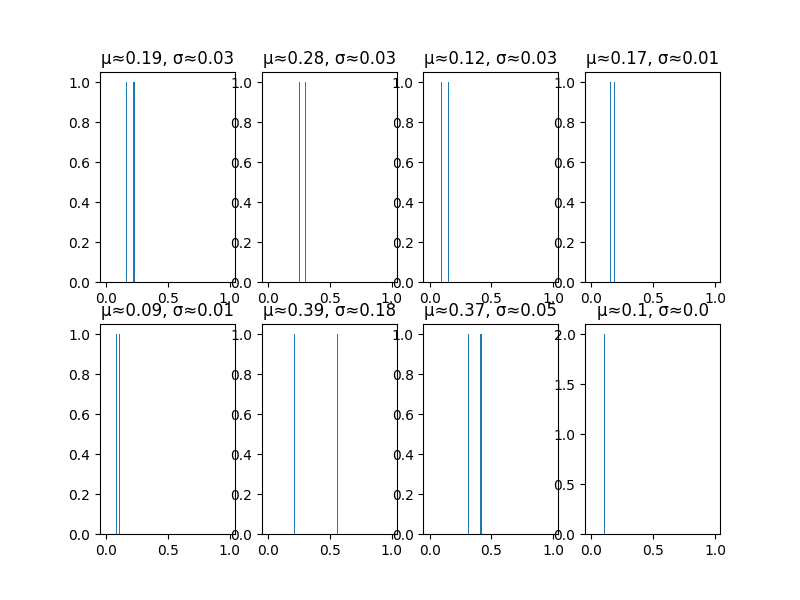
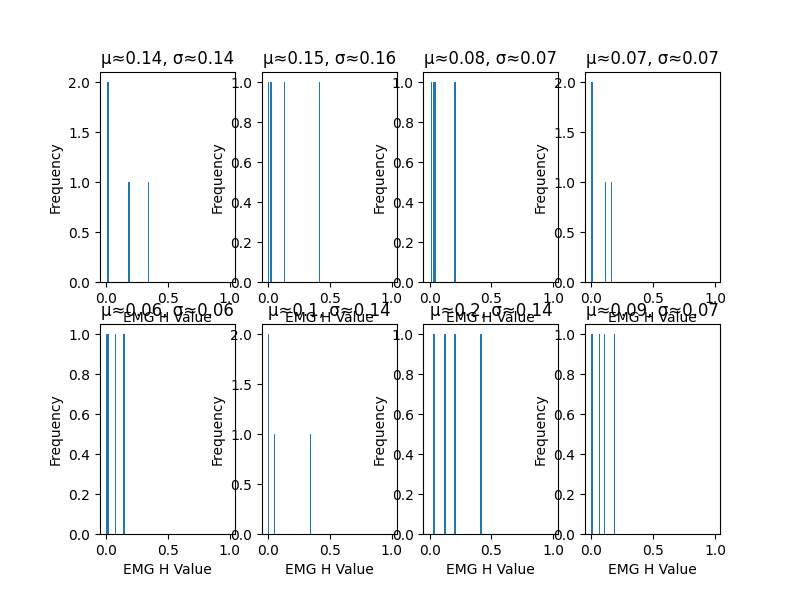
normalized matrices and grouped by task

diff --git a/src/script/find_similar_synergies.py b/src/script/find_similar_synergies.py
@@ -23,29 +23,29 @@ def find_all_Hs(data):
         #all_participants = ['c02', 'c04', 'c05', 'c07', 'c08', 'c09', 'c10'] # omitted c06 for now
         #all_tasks = ['10%', '30%', '50%']
         # Use one participant and one task for now
-        all_participants = ['c07']
-        all_tasks = ['10%']
+        all_participants = ['c02']
+        all_tasks = ['50%']
         for participant in all_participants:
             for task in all_tasks:
-                load_data = match_df.loc[(match_df['Task'] == task) & (match_df['Su'] == participant)]
+                load_data = match_df.loc[(match_df['Task'] == task) & (match_df['Su'] != 'c06')]
                 load_emg = load_data.loc[:, 'Bicep':'MidTrap'].values
-
+                """
                 curr_mean = 0
                 VAF_best = 0
                 H_best = 0
                 gmeans_all_ranks = np.zeros([1,3])
                 lmeans_all_ranks = np.zeros([3,8])
                 Hs_all_ranks = []
-                #W_best = 0
+                W_best = 0
                 rank_chosen = 0
                 for rank in range(2, 5):
                     g_mean, l_mean, VAF_m, H_m, W_m = rank_determine_helper(100, load_emg, rank)
                     gmeans_all_ranks[0,rank-2] = g_mean
                     lmeans_all_ranks[rank-2,:] = l_mean
                     Hs_all_ranks.append(H_m)
-                    if np.any(l_mean < 80) and g_mean < 90:
+                    if np.any(l_mean < 80) or g_mean < 90:
                         continue
-                    elif g_mean - curr_mean >= 3:
+                    elif g_mean - curr_mean < 3:
                         curr_mean = g_mean
                         VAF_best = VAF_m
                         H_best = H_m
@@ -55,6 +55,7 @@ def find_all_Hs(data):
                         continue
                 # If none of the ranks have g_mean > 90 and np.all(l_mean) > 80)
                 if type(H_best) == int: # still same as its initialized value --> no optimal H has been found yet
+                    print("entered second round selection")
                     if np.any(np.all(lmeans_all_ranks > 80, axis=1)): # if any row/rank has all l_means > 80, pick that one
                         rank_chosen = np.where(np.all(lmeans_all_ranks > 80, axis=1))[0][0] + 2 # lowest rank/row where all l_means > 80
                         H_best = Hs_all_ranks[np.where(np.all(lmeans_all_ranks > 80, axis=1))[0][0]]
@@ -62,19 +63,45 @@ def find_all_Hs(data):
                         rank_chosen = np.where(gmeans_all_ranks > 90)[0][0] + 2 # else, pick lowest rank with g_mean > 90
                         H_best = Hs_all_ranks[np.where(gmeans_all_ranks > 90)[0][0]]
                     else:
+                        H_best = []
                         print("No H satisfies the criteria.")
                         continue
+                """
 
-                #print('best number of synergy chosen is: ', rank_chosen)
-                #print('H_best is:\n', H_best)
+                curr_mean = 0
+                VAF_best = 0
+                H_best = 0
+                W_best = 0
+                rank_chosen = 0
+                for rank in range(2, 5):
+                    g_mean, l_mean, VAF_m, H_m, W_m = rank_determine_helper(100, load_emg, rank)
+                    if np.any(l_mean < 80):
+                        continue
+                    elif g_mean - curr_mean >= 3:
+                        curr_mean = g_mean
+                        VAF_best = VAF_m
+                        H_best = H_m
+                        W_best = W_m
+                        rank_chosen = rank
+                    else:
+                        continue
+
+                print('best number of synergy chosen is: ', rank_chosen)
+                print('H_best is:\n', H_best)
                 if 'reference' in mat:
-                    print(str(H_best))
+                    print("Reference")
+                    print("H: " + str(H_best))
+                    print("EMG mean weights: " + str(np.mean(W_best, axis=0)))
                     H_refs[(participant, task)] = H_best
                     #x=0
                 elif 'match' in mat:
+                    print("Match")
+                    print("H: " + str(H_best))
+                    print("EMG mean weights: " + str(np.mean(W_best, axis=0)))
                     H_matches[(participant, task)] = H_best
 
-    # Plot H_matches[0]
+
+    # Plot histogram of H_matches[0]
     plt.rcParams["figure.figsize"] = (8, 6)
     fig, axs = plt.subplots(2, 4)
     num_emgs = 8
@@ -85,9 +112,15 @@ def find_all_Hs(data):
         emg_stdev = np.std(H_matches_values_list[0][:,emg_count])
         title_str = 'μ≈' + str(round(emg_mean, 2)) + ', σ≈' + str(round(emg_stdev, 2))
         axs[int(emg_count/4), emg_count % 4].set_title(title_str)
-    # Plot the histogram of the random values
+        axs[int(emg_count / 4), emg_count % 4].set_xlabel('EMG H Value')
+        axs[int(emg_count / 4), emg_count % 4].set_ylabel('Frequency')
     plt.savefig('H_matches histogram')
     plt.show()
+
+
+
+
+
     return H_refs, H_matches
 
 
@@ -125,6 +158,8 @@ def scalar_prod_similarity_normal():
         axs[int(emg_count/4), emg_count % 4].hist(H_matches_rand[:, emg_count], list(np.array(np.arange(0,1,0.01))))
         title_str = 'μ≈' + str(round(H_matches_emg_means[emg_count], 2)) + ', σ≈' + str(round(H_matches_emg_stdevs[emg_count], 2))
         axs[int(emg_count/4), emg_count % 4].set_title(title_str)
+        axs[int(emg_count / 4), emg_count % 4].set_xaxis('EMG H Value')
+        axs[int(emg_count / 4), emg_count % 4].set_yaxis('Frequency')
     # Plot the histogram of the random values
     plt.savefig('H_matches_rand histogram (normal distrib)')
     plt.show()
@@ -153,6 +188,10 @@ def scalar_prod_similarity_normal():
     participant_synergy_pairs = [pair for pair in keys_percentile95_and_above if pair[0][0] != "H_ref_rand"] # participant data, not random data
     print("participant_synergy_pairs: " + str(participant_synergy_pairs))
     syn_pairs_same_participant_and_task = [pair for pair in participant_synergy_pairs if pair[0][0] == pair[0][2]] # if both correspond to same participant and same task
+    # choose rank number of synergy pairs with the highest scalar product if the syn_pairs_same_participant_and_task >= rank
+    rank = np.shape(H_matches_concat)[0]
+    if rank < len(syn_pairs_same_participant_and_task):
+        syn_pairs_same_participant_and_task = syn_pairs_same_participant_and_task[-rank:]
     print("syn_pairs_same_participant_and_task: " + str(syn_pairs_same_participant_and_task))
     percent_same_participant_and_task = ((len(syn_pairs_same_participant_and_task) / len(participant_synergy_pairs)) * 100) if len(participant_synergy_pairs) != 0 else 'nan'
     print("percent_same_participant_and_task: " + str(percent_same_participant_and_task))
@@ -202,6 +241,8 @@ def scalar_prod_similarity_truncnorm():
             axs[int(emg_count/4), emg_count % 4].hist(H_matches_rand[:, emg_count], list(np.array(np.arange(0,1,0.01))))
             title_str = 'μ≈' + str(round(H_matches_emg_means[emg_count], 2)) + ', σ≈' + str(round(H_matches_emg_stdevs[emg_count], 2))
             axs[int(emg_count/4), emg_count % 4].set_title(title_str)
+            axs[int(emg_count / 4), emg_count % 4].set_xaxis('EMG H Value')
+            axs[int(emg_count / 4), emg_count % 4].set_yaxis('Frequency')
     # Plot the histogram of the random values
     plt.savefig('H_matches_rand histogram (truncnorm distrib)')
     plt.show()
@@ -230,6 +271,10 @@ def scalar_prod_similarity_truncnorm():
     participant_synergy_pairs = [pair for pair in keys_percentile95_and_above if pair[0][0] != "H_ref_rand"] # participant data, not random data
     print("participant_synergy_pairs: " + str(participant_synergy_pairs))
     syn_pairs_same_participant_and_task = [pair for pair in participant_synergy_pairs if pair[0][0] == pair[0][2]] # if both correspond to same participant and same task
+    # choose rank number of synergy pairs with the highest scalar product if the syn_pairs_same_participant_and_task >= rank
+    rank = np.shape(H_matches_concat)[0]
+    if rank < len(syn_pairs_same_participant_and_task):
+        syn_pairs_same_participant_and_task = syn_pairs_same_participant_and_task[-rank:]
     print("syn_pairs_same_participant_and_task: " + str(syn_pairs_same_participant_and_task))
     percent_same_participant_and_task = ((len(syn_pairs_same_participant_and_task) / len(participant_synergy_pairs)) * 100) if len(participant_synergy_pairs) != 0 else 'nan'
     print("percent_same_participant_and_task: " + str(percent_same_participant_and_task))
@@ -241,6 +286,41 @@ def scalar_prod_similarity_uniform():
     H_refs, H_matches = find_all_Hs(datasets)
     print("H_refs: " + str(H_refs))
     print("H_matches: " + str(H_matches))
+
+    plt.rcParams["figure.figsize"] = (8, 6)
+    fig, axs = plt.subplots(2, 2)
+    x_axis_names = ['Bicep', 'Tricep lateral',
+                    'Anterior deltoid', 'Medial deltoid',
+                    'Posterior deltoid', 'Pectoralis major',
+                    'Lower trapezius', 'Middle trapezius']
+    x = np.arange(0,8)
+    H_matches_values = list(H_matches.values())
+    for syn in range(0, H_matches_values[0].shape[0]):
+        axs[int(syn/2), syn % 2].bar(x, H_matches_values[0][syn,:])
+        axs[int(syn/2), syn % 2].set_xticklabels(x_axis_names, rotation=15)
+        axs[int(syn/2), syn % 2].set_title('Row ' + str(syn))
+        axs[int(syn/2), syn % 2].set_xlabel('EMG')
+        axs[int(syn/2), syn % 2].set_ylabel('H Value')
+    #plt.subplots_adjust(bottom=0.1, right=0.1, top=0.9)
+    plt.tight_layout()
+    plt.savefig('H_match for uniform distribution')
+    plt.show()
+
+    plt.rcParams["figure.figsize"] = (8, 6)
+    fig, axs = plt.subplots(2, 2)
+    x = np.arange(0, 8)
+    H_refs_values = list(H_refs.values())
+    for syn in range(0, H_refs_values[0].shape[0]):
+        axs[int(syn / 2), syn % 2].bar(x, H_refs_values[0][syn, :])
+        axs[int(syn / 2), syn % 2].set_xticklabels(x_axis_names, rotation=15)
+        axs[int(syn / 2), syn % 2].set_title('Row ' + str(syn))
+        axs[int(syn / 2), syn % 2].set_xlabel('EMG')
+        axs[int(syn / 2), syn % 2].set_ylabel('H Value')
+    # plt.subplots_adjust(bottom=0.1, right=0.1, top=0.9)
+    plt.tight_layout()
+    plt.savefig('H_ref for uniform distribution')
+    plt.show()
+
 
     # Generate the random matrices, using a uniform distribution with points ranging from mean-stdev to mean+stdev
     num_emgs = 8
@@ -270,15 +350,34 @@ def scalar_prod_similarity_uniform():
         lower_bound = H_matches_emg_mins[emg_count]-0.2 if H_matches_emg_mins[emg_count]-0.2 > 0 else 0
         H_matches_rand[:, emg_count] = np.random.uniform(lower_bound, H_matches_emg_maxes[emg_count]+0.2, 1000)
     H_matches_rand = normalize(H_matches_rand, norm='l1') # Normalize the random values
-
+    
     # Plot the histogram of the random values
     for emg_count in range(0, num_emgs):
         axs[int(emg_count/4), emg_count % 4].hist(H_matches_rand[:, emg_count], list(np.array(np.arange(0,1,0.01))))
         title_str = 'μ≈' + str(round(H_matches_emg_means[emg_count], 2)) + ', σ≈' + str(round(H_matches_emg_stdevs[emg_count], 2))
         axs[int(emg_count/4), emg_count % 4].set_title(title_str)
-
+        axs[int(emg_count / 4), emg_count % 4].set_xlabel('EMG H Value')
+        axs[int(emg_count / 4), emg_count % 4].set_ylabel('Frequency')
 
     plt.savefig('H_matches_rand histogram (uniform distrib)')
+    plt.show()
+
+
+    #Plot 2 random Hs
+    #plt.figure()
+    fig = plt.figure(figsize = (10, 5))
+    #ax1 = f1.add_subplot(111)
+    x_axis_labels = ['Bicep', 'Tricep lateral',
+                    'Anterior deltoid', 'Medial deltoid',
+                    'Posterior deltoid', 'Pectoralis major',
+                    'Lower trapezius', 'Middle trapezius']
+    x = np.arange(0,8)
+    plt.bar(x, H_matches_rand[500,:])
+    plt.xlabel('Muscle')
+    plt.ylabel('H Value')
+    plt.xticks(x, x_axis_labels)
+    plt.title('H_matches_rand Row 500')
+    plt.savefig('H_matches_rand Row 500')
     plt.show()
 
 
@@ -305,6 +404,11 @@ def scalar_prod_similarity_uniform():
     participant_synergy_pairs = [pair for pair in keys_percentile95_and_above if pair[0][0] != "H_ref_rand"] # participant data, not random data
     print("participant_synergy_pairs: " + str(participant_synergy_pairs))
     syn_pairs_same_participant_and_task = [pair for pair in participant_synergy_pairs if pair[0][0] == pair[0][2]] # if both correspond to same participant and same task
+    # choose rank number of synergy pairs with the highest scalar product if the syn_pairs_same_participant_and_task >= rank
+    rank = np.shape(H_matches_concat)[0]
+    if rank < len(syn_pairs_same_participant_and_task):
+        syn_pairs_same_participant_and_task = syn_pairs_same_participant_and_task[-rank:]
+    print("syn_pairs_same_participant_and_task: " + str(syn_pairs_same_participant_and_task))
     print("syn_pairs_same_participant_and_task: " + str(syn_pairs_same_participant_and_task))
     percent_same_participant_and_task = ((len(syn_pairs_same_participant_and_task) / len(participant_synergy_pairs)) * 100) if len(participant_synergy_pairs) != 0 else 'nan'
     print("percent_same_participant_and_task: " + str(percent_same_participant_and_task))
@@ -312,5 +416,5 @@ def scalar_prod_similarity_uniform():
 
 if __name__ == "__main__":
     #scalar_prod_similarity_normal()
-    scalar_prod_similarity_truncnorm()
-    #scalar_prod_similarity_uniform()
+    #scalar_prod_similarity_truncnorm()
+    scalar_prod_similarity_uniform()

diff --git a/src/script/nmf_implement.py b/src/script/nmf_implement.py
@@ -56,7 +56,8 @@ def rank_determine_helper(repeat_num, A, rank):
 
 if __name__ == "__main__":
     match_df = pd.read_csv('../data/referenceData_121120.csv')
-    load_data = match_df.loc[(match_df['Task'] == '50%') & (match_df['Su'] != 'c06')]
+    #load_data = match_df.loc[(match_df['Task'] == '50%') & (match_df['Su'] != 'c06')]
+    load_data = match_df.loc[(match_df['Task'] == '10%') & (match_df['Su'] == 'c02')]
     load_emg = load_data.loc[:, 'Bicep':'MidTrap'].values
 
     curr_mean = 0
